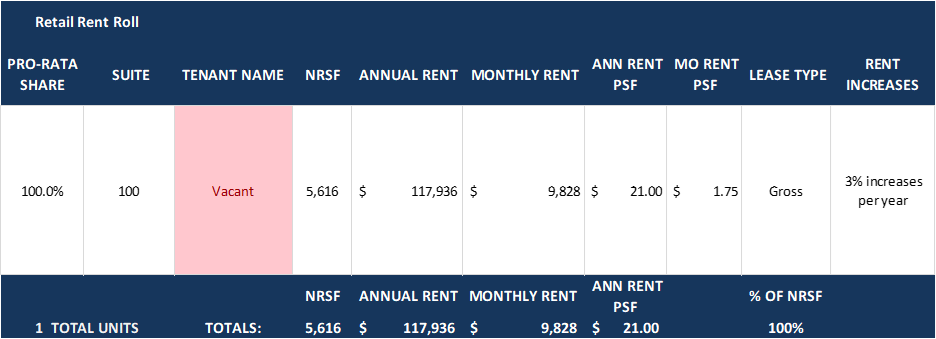
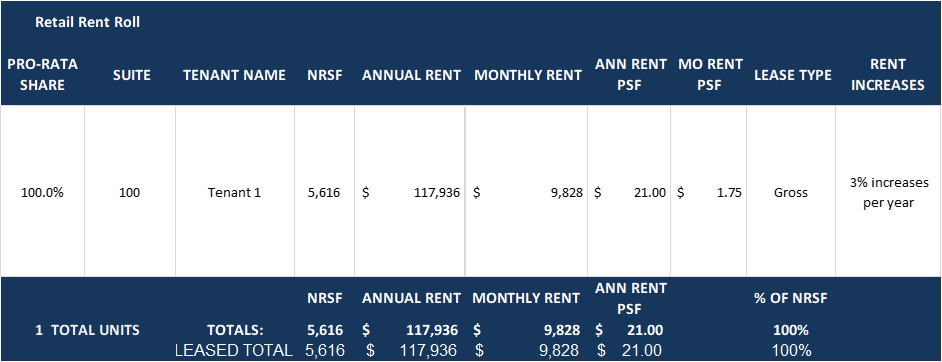
update tcc

diff --git a/projects/town-center.html b/projects/town-center.html
@@ -221,7 +221,7 @@
 
 
         <div class="model-image">
-            <h3>Rent Comparables</h3>
+            <h3>Rent Comps</h3>
             <img src="../images/town-center/rent-comps.png"
                  alt="Town Center rent comparable analysis">
         </div>
